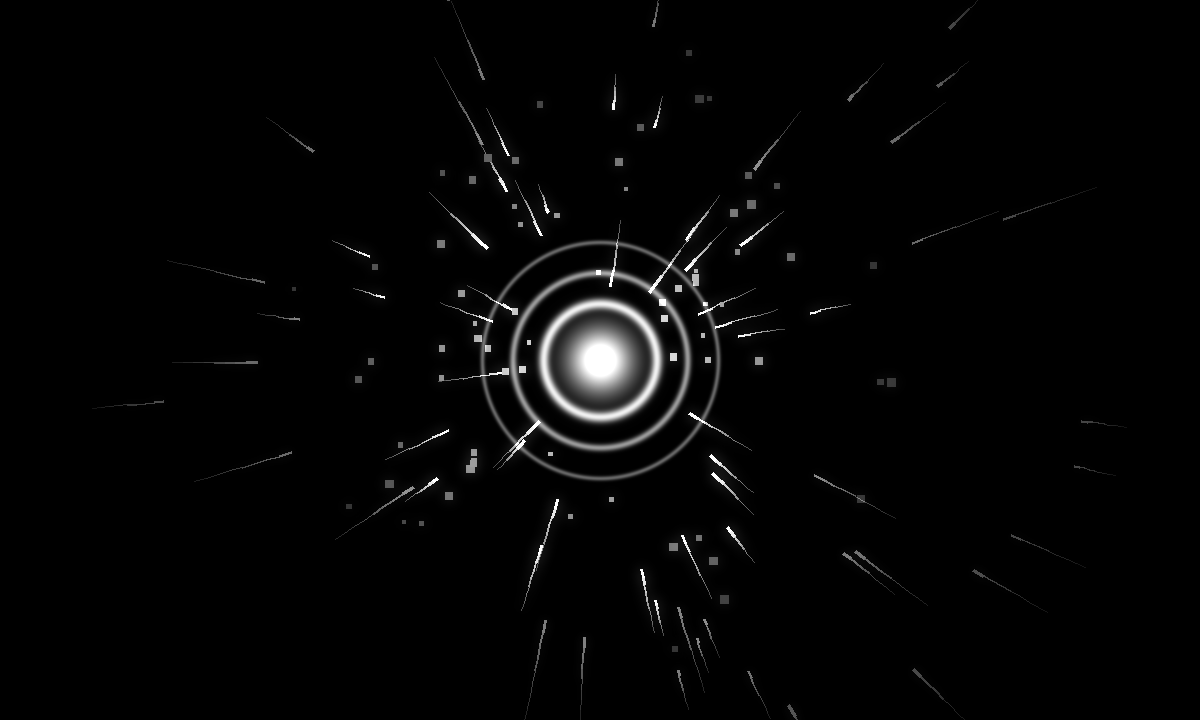
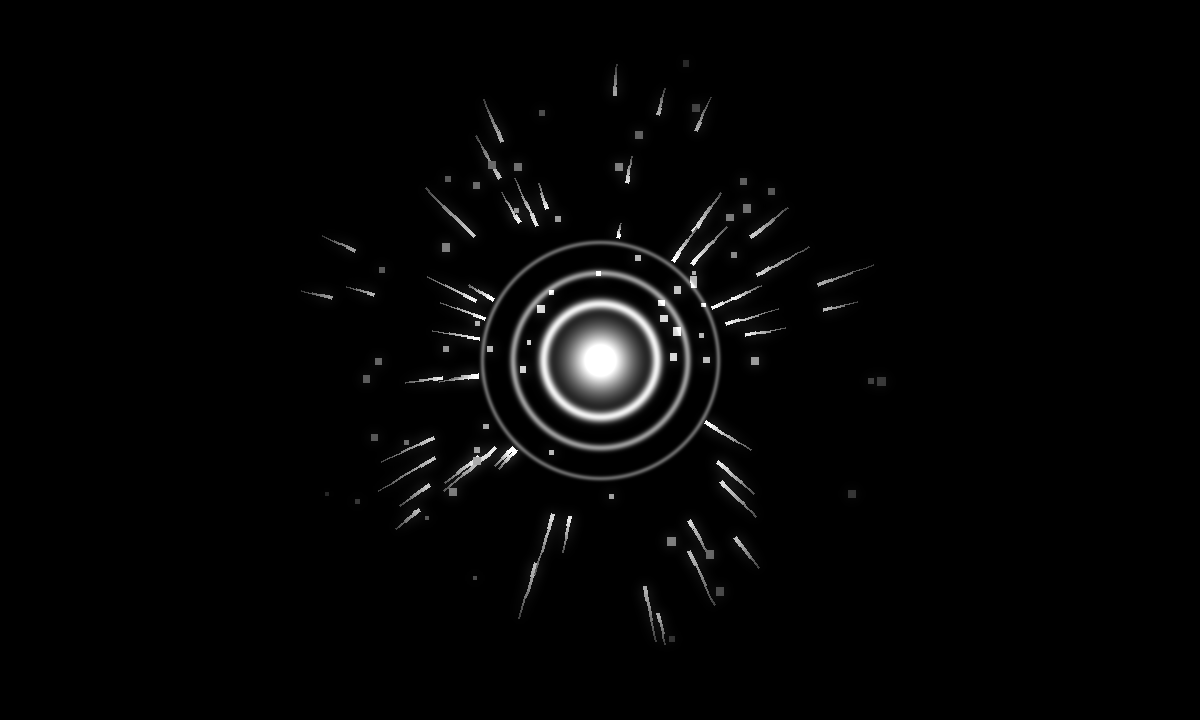
AKA 에너지 모양의 퍼지는 범위를 줄이고 고리 둘레를 촘촘하게 (줄기 52, 입자 60)
Claude-Session: https://claude.ai/code/session_01Sa7yTYtcoDL1XnCW4rccMs

diff --git a/grain.js b/grain.js
@@ -20,7 +20,7 @@ const clamp01 = u => Math.min(1, Math.max(0, u));
 
 async function loadShape(slug) {
   const image = new Image();
-  image.src = `./assets/grain/${slug}.png?v=8`;
+  image.src = `./assets/grain/${slug}.png?v=9`;
   await image.decode();
   const canvas = document.createElement("canvas");
   canvas.width = MAP_W; canvas.height = MAP_H;
@@ -50,7 +50,7 @@ async function start() {
   // 멈춘 화면용 그림은 점 지도보다 세 배 촘촘한 것을 따로 쓴다(선이 또렷하게 보이도록).
   const HI = 3, tints = {};
   await Promise.all(slugs.map(async slug => {
-    const image = new Image(); image.src = `./assets/grain/${slug}-hi.png?v=2`; await image.decode();
+    const image = new Image(); image.src = `./assets/grain/${slug}-hi.png?v=3`; await image.decode();
     const source = document.createElement("canvas"); source.width = MAP_W * HI; source.height = MAP_H * HI;
     const g = source.getContext("2d", { willReadFrequently: true }); g.drawImage(image, 0, 0, source.width, source.height);
     tints[slug] = { levels: g.getImageData(0, 0, source.width, source.height).data, canvas: document.createElement("canvas") };

diff --git a/aka/index.html b/aka/index.html
@@ -52,7 +52,7 @@
   <!-- portfolio-rail:end -->
 
   <main>
-    <section class="project-hero" aria-labelledby="project-title" style="--hero-mask: url(../assets/grain/aka-mask.png)">
+    <section class="project-hero" aria-labelledby="project-title" style="--hero-mask: url(../assets/grain/aka-mask.png?v=2)">
       <div class="project-intro">
         <p class="game-tools">Unreal Engine 5.6 · C++</p>
         <h1 id="project-title">AKA</h1>

diff --git a/index.html b/index.html
@@ -24,7 +24,7 @@
   <script type="module" src="./dock.js?v=hero-2"></script>
   <script type="module" src="./work-deck.js?v=browse-1"></script>
   <script type="module" src="./fit.js?v=2"></script>
-  <script type="module" src="./grain.js?v=14"></script>
+  <script type="module" src="./grain.js?v=15"></script>
 </head>
 <body class="home-page portfolio-page portfolio-home portfolio-nav-page">
 <div class="page">
